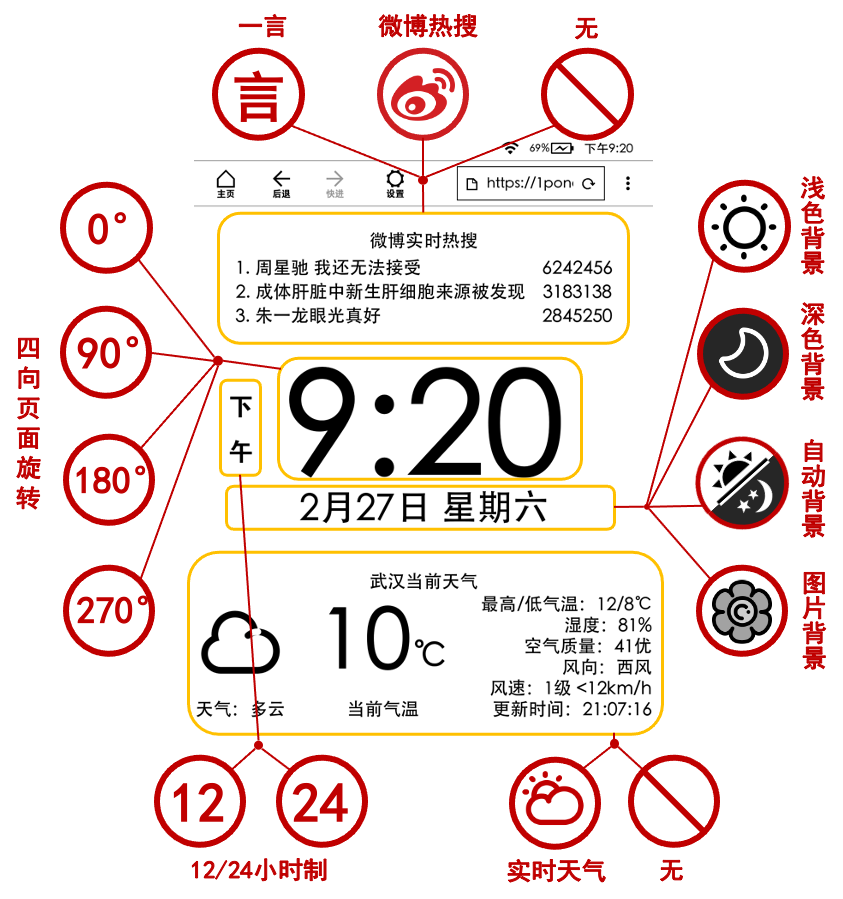
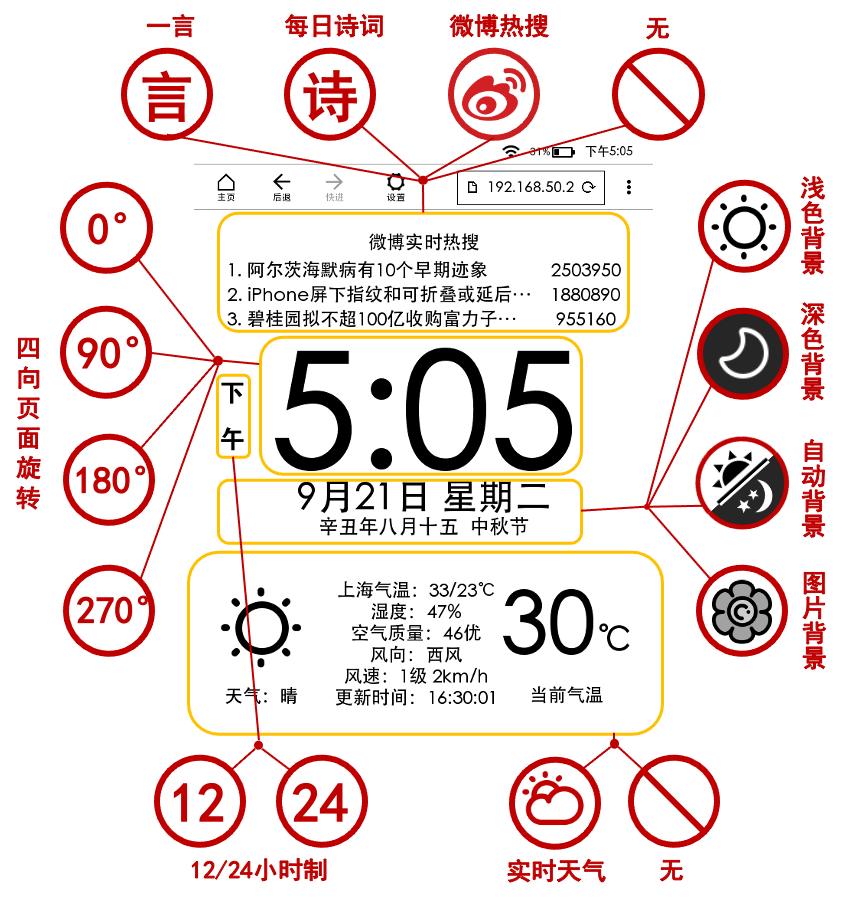
V2.3

Changed region(s): [[0.1234, 0.0, 0.8327, 0.8098], [0.6785, 0.0, 0.7094, 0.0623], [0.3393, 0.7475, 0.3701, 0.7786]]

diff --git a/js/main.js b/js/main.js
@@ -1,3 +1,3 @@
-window.onload=function(){if(timezoneOffset!==""){timezoneOffset=Number(timezoneOffset);clock(bg_autoMode);time_timer=setInterval("clock("+bg_autoMode+")",60*1000)}else{getTimezoneOffset()}if(rotation_mode!==""){rotation_mode=Number(rotation_mode)}else{rotation_mode=rotation_mode_default;setCookie("rotation_mode",rotation_mode,30)}rotation_mode=rotation_mode===0?3:rotation_mode-1;rotateScreen();if(hour24!==""){hour24=hour24==="true"?true:false}else{hour24=hour24_default;setCookie("hour24",hour24,30)}if(top_mode!==""){top_mode=Number(top_mode)}else{top_mode=top_mode_default;setCookie("top_mode",top_mode,30)}top_mode=top_mode===0?TOP_MODE.length-1:top_mode-1;changeTopMode();if(bottom_mode!==""){bottom_mode=Number(bottom_mode)}else{bottom_mode=bottom_mode_default;setCookie("bottom_mode",bottom_mode,30)}bottom_mode=bottom_mode===0?BOTTOM_MODE.length-1:bottom_mode-1;changeBottomMode();if(bg_mode!==""){bg_mode=Number(bg_mode);bg_mode=bg_mode===0?BG_MODE.length-1:bg_mode-1;changeBgMode()}else{bg_mode=bg_mode_default;setCookie("bg_mode",bg_mode,30)}addEvent(bg_autoMode)};var ALAPI_TOKEN="pBsICqbRV2eVtGiI";var UNSPLASH_ID="bXwWoUhPeVw-yvSesGMgaOENnlSzhHYB43kZIQOR8cQ";var TOP_MODE=["nonetop","hitokoto","poem","weibo"];var BOTTOM_MODE=["nonebtm","weather"];var BG_MODE=["none","dark","auto","pic"];var morningHour=6;var nightHour=19;var top_mode_default=1;var bottom_mode_default=1;var bg_mode_default=0;var rotation_mode_default=0;var hour24_default=false;var bg_autoMode=false;var weibo_num=3;var cip=returnCitySN.cip;var top_mode=getCookie("top_mode");var bottom_mode=getCookie("bottom_mode");var bg_mode=getCookie("bg_mode");var rotation_mode=getCookie("rotation_mode");var hour24=getCookie("hour24");var timezoneOffset=getCookie("timezoneOffset");var hitokoto_data=null;var weibo_data=null;var poem_data=null;var weather_data=null;var pic_data=null;var hitokoto_timer=null;var poem_timer=null;var weibo_timer=null;var time_timer=null;var weather_timer=null;var pic_timer=null;var weaImgs={xue:["&#xe645;","&#xe645;"],lei:["&#xe643;","&#xe643;"],shachen:["&#xe646;","&#xe646;"],wu:["&#xe647;","&#xe647;"],bingbao:["&#xe667;","&#xe667;"],yun:["&#xe648;","&#xe648;"],duoyun:["&#xe648;","&#xe648;"],yu:["&#xe64b;","&#xe64b;"],yin:["&#xe64a;","&#xe652;"],qing:["&#xe649;","&#xe764;"],weizhi:["&#xe6f2;","&#xe6f2;"]};var autoModeImg="&#xe8e3";function supportCss3(style){var prefix=["webkit","Moz","ms","o"],i,humpString=[],htmlStyle=document.documentElement.style,_toHumb=function(string){return string.replace(/-(\w)/g,function($0,$1){return $1.toUpperCase()})};for(i in prefix){humpString.push(_toHumb(prefix[i]+"-"+style))}humpString.push(_toHumb(style));for(i in humpString){if(humpString[i] in htmlStyle){return true}}return false}function showScreenSize(){var w=document.documentElement.clientWidth||document.body.clientWidth;var h=document.documentElement.clientHeight||document.body.clientHeight;console.log(w,h);document.getElementById("screensize").innerHTML="屏幕分辨率的宽："+w+"</br>屏幕分辨率的高："+h+"</br>getTimezoneOffset: "+Boolean(new Date().getTimezoneOffset)}function createXHR(){var xhr=null;if(window.XMLHttpRequest){xhr=new XMLHttpRequest()}else{if(window.ActiveXObject){xhr=new ActiveXObject("Microsoft.XMLHTTP")}}return xhr}function hitokoto(){console.log("hitokoto update");var xhr=createXHR();xhr.open("GET","https://v1.hitokoto.cn?encode=json&charset=utf-8",true);xhr.onreadystatechange=function(){if(this.readyState==4){hitokoto_data=JSON.parse(this.responseText);document.getElementById("brackets-l").innerHTML="『";document.getElementById("brackets-r").innerHTML="』";document.getElementById("hitokoto").innerHTML=hitokoto_data.hitokoto;document.getElementById("from").innerHTML=hitokoto_data.from_who?"「"+hitokoto_data.from+" "+hitokoto_data.from_who+"」":"「"+hitokoto_data.from+"」"}};xhr.send(null)}function poem(){console.log("poem update");jinrishici.load(function(result){poem_data=result.data;var sentence=document.querySelector("#poem_sentence");var info=document.querySelector("#poem_info");sentence.innerHTML=poem_data.content;info.innerHTML="【"+poem_data.origin.dynasty+"】"+poem_data.origin.author+"《"+poem_data.origin.title+"》"})}function getTimezoneOffset(){var xhr=createXHR();xhr.open("GET","https://worldtimeapi.org/api/ip",true);xhr.onreadystatechange=function(){if(this.readyState==4){timezoneOffset=JSON.parse(this.responseText).raw_offset/60;setCookie("timezoneOffset",timezoneOffset,30);clock()}};xhr.send(null)}function clock(autoMode){var date=new Date();var utc8DiffMinutes=date.getTimezoneOffset()+timezoneOffset;date.setMinutes(date.getMinutes()+utc8DiffMinutes);var MM=date.getMonth()+1;var dd=date.getDate();var day=date.getDay();var hour=date.getHours();var minutes=date.getMinutes();var lightMode=true;if(autoMode){if(hour>nightHour||hour<morningHour){if(lightMode){document.getElementsByClassName("page")[0].style.color="#ffffff";document.getElementsByClassName("page")[0].style.backgroundColor="#000000";lightMode=false}}else{if(!lightMode){document.getElementsByClassName("page")[0].style.color="#000000";
-document.getElementsByClassName("page")[0].style.backgroundColor="#ffffff";lightMode=true}}}if(!hour24){var apm="上<br>午";if(hour>12){apm="下<br>午";hour-=12}document.getElementById("apm").innerHTML=apm}else{document.getElementById("apm").innerHTML=""}var timeString=hour+":"+("0"+minutes).slice(-2);var dateString=MM+"月"+dd+"日";var weekList=["日","一","二","三","四","五","六"];var weekString="星期"+weekList[day];document.getElementById("time").innerHTML=timeString;document.getElementById("date").innerHTML=dateString+" "+weekString}function weather(){console.log("weather update");var xhr=createXHR();xhr.open("GET","https://v2.alapi.cn/api/tianqi?token="+ALAPI_TOKEN+"&ip="+cip,true);xhr.onreadystatechange=function(){if(this.readyState==4){var data=JSON.parse(this.responseText);if(data.code===200){weather_data=data.data;var imgs=weaImgs[weather_data.weather_code];var img=imgs[0];var date=new Date();var utc8DiffMinutes=date.getTimezoneOffset()+480;date.setMinutes(date.getMinutes()+utc8DiffMinutes);var hour=date.getHours();if(hour>nightHour||hour<morningHour){img=imgs[1]}var weaImg='<span class="iconfont">'+img+"</span>"+"<div>天气："+weather_data.weather+"</div>";var weaTemp='<div class="tempNum">'+weather_data.temp+'</div><div class="symbol">&#8451;</div>'+"<div>当前气温</div>";var highTemp=weather_data.max_temp;var lowTemp=weather_data.min_temp;var air=weather_data.aqi.air;air=air?air:"未知";var airLevel=weather_data.aqi.air_level;airLevel=airLevel&&air?airLevel:"";var updateTime=weather_data.update_time.split(" ");updateTime=updateTime[updateTime.length-1];var weaInfo="<div>最高/低气温："+highTemp+"/"+lowTemp+"&#8451;</div>"+"<div>湿度："+weather_data.humidity+"</div>"+"<div>空气质量："+air+airLevel+"</div>"+"<div>风向："+weather_data.wind+"</div>"+"<div>风速："+weather_data.wind_speed+" "+weather_data.wind_scale+"</div>"+"<div>更新时间："+updateTime+"</div>";document.getElementById("weaTitle").innerHTML=weather_data.city+"当前天气";document.getElementById("weaImg").innerHTML=weaImg;document.getElementById("weaTemp").innerHTML=weaTemp;document.getElementById("weaInfo").innerHTML=weaInfo}else{console.error("天气数据获取失败: "+weather_data.msg);document.getElementById("weaTitle").innerHTML="数据获取失败，请稍后再试～"}}};xhr.send(null)}function weibo(){console.log("weibo update");var xhr=createXHR();xhr.open("GET","https://v2.alapi.cn/api/new/wbtop?num="+weibo_num,true);xhr.setRequestHeader("token",ALAPI_TOKEN);xhr.onreadystatechange=function(){if(this.readyState==4){var data=JSON.parse(this.responseText);var weibo_title=document.getElementsByClassName("weibo_title")[0];var hot_word=document.getElementById("hot_word");var hot_word_num=document.getElementById("hot_word_num");if(data.code===200){weibo_data=data.data;weibo_title.innerHTML="微博实时热搜";hot_word.innerHTML="";hot_word_num.innerHTML="";for(var i=0;i<weibo_num;i++){var index=i+1;hot_word.innerHTML+="<li>"+index+". "+weibo_data[i].hot_word+"</li>";hot_word_num.innerHTML+="<li>"+weibo_data[i].hot_word_num+"</li>"}}else{console.error("微博热搜数据获取失败: "+data.msg);weibo_title.innerHTML="数据获取失败，请稍后再试～"}}};xhr.send(null)}function picture(){console.log("picture update")}function changeMode(pos){console.log("# change "+pos+" mode");var pos_mode=eval(pos+"_mode");var POS_MODE=eval(pos.toUpperCase()+"_MODE");if(pos_mode!==0&&eval(POS_MODE[pos_mode]+"_timer")){clearInterval(eval(POS_MODE[pos_mode]+"_timer"));eval(POS_MODE[pos_mode]+"_timer = null");console.log(POS_MODE[pos_mode]+"_timer destroyed")}pos_mode++;if(pos_mode===POS_MODE.length){pos_mode=0}eval(pos+"_mode = pos_mode");setCookie(pos+"_mode",pos_mode,30);if(pos_mode!==0){if(!eval(POS_MODE[pos_mode]+"_data")){eval(POS_MODE[pos_mode]+"()")}eval(POS_MODE[pos_mode]+'_timer = setInterval(POS_MODE[pos_mode] + "()", 60 * 1000 * 20)');console.log(POS_MODE[pos_mode]+"_timer created")}for(var i=0;i<POS_MODE.length;i++){document.getElementsByClassName(POS_MODE[i]+"_container")[0].style.display="none"}document.getElementsByClassName(POS_MODE[pos_mode]+"_container")[0].style.display="block"}function changeTopMode(){changeMode("top")}function changeBottomMode(){changeMode("bottom")}function rotateScreen(){console.log("# rotate screen "+rotation_mode);var body=document.getElementsByTagName("body")[0];var page=document.getElementsByClassName("page")[0];var w=document.documentElement.clientWidth||document.body.clientWidth;var h=document.documentElement.clientHeight||document.body.clientHeight;if(rotation_mode===0){body.classList.add("rotate-90");body.style.height=w+"px";page.style.width=h+"px";page.style.height=w+"px"}else{if(rotation_mode===1){body.classList.remove("rotate-90");body.classList.add("rotate-180");body.style.height=h+"px";page.style.width=w+"px";page.style.height=h+"px"}else{if(rotation_mode===2){body.classList.remove("rotate-180");body.classList.add("rotate-270");body.style.width=h+"px";page.style.height=w+"px";page.style.width="auto"}else{if(rotation_mode===3){body.classList.remove("rotate-270");body.style.width="auto";body.style.height=h+"px";page.style.width=w+"px";page.style.height=h+"px"
-}}}}rotation_mode=rotation_mode===3?0:rotation_mode+1;setCookie("rotation_mode",rotation_mode,30)}function changeBgMode(){console.log("# change background");var page=document.getElementsByClassName("page")[0];var pageClasses=page.classList;bg_mode=bg_mode===BG_MODE.length-1?0:bg_mode+1;setCookie("bg_mode",bg_mode,30);if(bg_mode===0){clearInterval(pic_timer);pic_timer=null;pageClasses.remove("pic");console.log("picture close");pageClasses.add("light")}else{if(bg_mode===1){pageClasses.remove("light");pageClasses.add("dark")}else{if(bg_mode===2){var date=new Date();var utc8DiffMinutes=date.getTimezoneOffset()+480;date.setMinutes(date.getMinutes()+utc8DiffMinutes);var hour=date.getHours();if(hour>nightHour||hour<morningHour){pageClasses.remove("light");pageClasses.add("dark")}else{pageClasses.remove("dark");pageClasses.add("light")}var icon=document.getElementById("light_dark_icon");var middle=document.getElementById("middle");icon.style.visibility="visible";middle.style.visibility="hidden";setTimeout(function(){icon.style.visibility="hidden";middle.style.visibility="visible"},1000)}else{console.log("picture open");if(!pic_data){picture()}pic_timer=setInterval("picture()",60*1000*60);pageClasses.remove("light");pageClasses.remove("dark");pageClasses.add("pic")}}}}function addEvent(autoMode){document.getElementById("apmOuterWrapper").addEventListener("click",function(){console.log("hourCycle change");hour24=!hour24;setCookie("hour24",hour24,30);clock(autoMode)});document.getElementsByClassName("time")[0].addEventListener("click",rotateScreen);document.getElementById("top").addEventListener("click",changeTopMode);document.getElementById("bottom").addEventListener("click",changeBottomMode);document.getElementById("date").addEventListener("click",changeBgMode)};
+window.onload=function(){if(timezoneOffset!==""){timezoneOffset=Number(timezoneOffset);clock(bg_autoMode);time_timer=setInterval("clock("+bg_autoMode+")",60*1000)}else{getTimezoneOffset()}if(rotation_mode!==""){rotation_mode=Number(rotation_mode)}else{rotation_mode=rotation_mode_default;setCookie("rotation_mode",rotation_mode,30)}rotation_mode=rotation_mode===0?3:rotation_mode-1;rotateScreen();if(hour24!==""){hour24=hour24==="true"?true:false}else{hour24=hour24_default;setCookie("hour24",hour24,30)}if(top_mode!==""){top_mode=Number(top_mode)}else{top_mode=top_mode_default;setCookie("top_mode",top_mode,30)}top_mode=top_mode===0?TOP_MODE.length-1:top_mode-1;changeTopMode();if(bottom_mode!==""){bottom_mode=Number(bottom_mode)}else{bottom_mode=bottom_mode_default;setCookie("bottom_mode",bottom_mode,30)}bottom_mode=bottom_mode===0?BOTTOM_MODE.length-1:bottom_mode-1;changeBottomMode();if(bg_mode!==""){bg_mode=Number(bg_mode);bg_mode=bg_mode===0?BG_MODE.length-1:bg_mode-1;changeBgMode()}else{bg_mode=bg_mode_default;setCookie("bg_mode",bg_mode,30)}addEvent(bg_autoMode)};var ALAPI_TOKEN="pBsICqbRV2eVtGiI";var UNSPLASH_ID="bXwWoUhPeVw-yvSesGMgaOENnlSzhHYB43kZIQOR8cQ";var TOP_MODE=["nonetop","hitokoto","poem","weibo"];var BOTTOM_MODE=["nonebtm","weather"];var BG_MODE=["none","dark","auto","pic"];var morningHour=6;var nightHour=19;var top_mode_default=1;var bottom_mode_default=1;var bg_mode_default=0;var rotation_mode_default=0;var hour24_default=false;var bg_autoMode=false;var weibo_num=3;var cip=returnCitySN.cip;var top_mode=getCookie("top_mode");var bottom_mode=getCookie("bottom_mode");var bg_mode=getCookie("bg_mode");var rotation_mode=getCookie("rotation_mode");var hour24=getCookie("hour24");var timezoneOffset=getCookie("timezoneOffset");var hitokoto_data=null;var weibo_data=null;var poem_data=null;var weather_data=null;var pic_data=null;var dd_data=null;var hitokoto_timer=null;var poem_timer=null;var weibo_timer=null;var time_timer=null;var weather_timer=null;var pic_timer=null;var weaImgs={xue:["&#xe645;","&#xe645;"],lei:["&#xe643;","&#xe643;"],shachen:["&#xe646;","&#xe646;"],wu:["&#xe647;","&#xe647;"],bingbao:["&#xe667;","&#xe667;"],yun:["&#xe648;","&#xe648;"],duoyun:["&#xe648;","&#xe648;"],yu:["&#xe64b;","&#xe64b;"],yin:["&#xe64a;","&#xe652;"],qing:["&#xe649;","&#xe764;"],weizhi:["&#xe6f2;","&#xe6f2;"],};var autoModeImg="&#xe8e3";function createXHR(){var xhr=null;if(window.XMLHttpRequest){xhr=new XMLHttpRequest()}else{if(window.ActiveXObject){xhr=new ActiveXObject("Microsoft.XMLHTTP")}}return xhr}function hitokoto(){console.log("hitokoto update");var xhr=createXHR();xhr.open("GET","https://v1.hitokoto.cn?encode=json&charset=utf-8",true);xhr.onreadystatechange=function(){if(this.readyState==4){hitokoto_data=JSON.parse(this.responseText);document.getElementById("brackets-l").innerHTML="『";document.getElementById("brackets-r").innerHTML="』";document.getElementById("hitokoto").innerHTML=hitokoto_data.hitokoto;document.getElementById("from").innerHTML=hitokoto_data.from_who?"「"+hitokoto_data.from+" "+hitokoto_data.from_who+"」":"「"+hitokoto_data.from+"」"}};xhr.send(null)}function poem(){console.log("poem update");jinrishici.load(function(result){poem_data=result.data;var sentence=document.querySelector("#poem_sentence");var info=document.querySelector("#poem_info");sentence.innerHTML=poem_data.content;info.innerHTML="【"+poem_data.origin.dynasty+"】"+poem_data.origin.author+"《"+poem_data.origin.title+"》"})}function getTimezoneOffset(){var xhr=createXHR();xhr.open("GET","https://worldtimeapi.org/api/ip/"+(cip||null),true);xhr.onreadystatechange=function(){if(this.readyState==4){timezoneOffset=JSON.parse(this.responseText).raw_offset/60;setCookie("timezoneOffset",timezoneOffset,30);clock()}};xhr.send(null)}function clock(autoMode){var date=new Date();var utc8DiffMinutes=date.getTimezoneOffset()+timezoneOffset;date.setMinutes(date.getMinutes()+utc8DiffMinutes);var MM=date.getMonth()+1;var dd=date.getDate();var day=date.getDay();var hour=date.getHours();var minutes=date.getMinutes();var lightMode=true;if(autoMode){if(hour>nightHour||hour<morningHour){if(lightMode){document.getElementsByClassName("page")[0].style.color="#ffffff";document.getElementsByClassName("page")[0].style.backgroundColor="#000000";lightMode=false}}else{if(!lightMode){document.getElementsByClassName("page")[0].style.color="#000000";document.getElementsByClassName("page")[0].style.backgroundColor="#ffffff";lightMode=true}}}if(!hour24){var apm="上<br>午";if(hour>12){apm="下<br>午";hour-=12}document.getElementById("apm").innerHTML=apm}else{document.getElementById("apm").innerHTML=""}var timeString=hour+":"+("0"+minutes).slice(-2);document.getElementById("time").innerHTML=timeString;if(!dd_data||dd!==dd_data){console.log("get lunar");dd_data=dd;var dateString=MM+"月"+dd+"日";var weekList=["日","一","二","三","四","五","六"];var weekString="星期"+weekList[day];document.getElementById("date").innerHTML=dateString+" "+weekString;getLunar();getHoliday()}}function getLunar(){var lunarString="";
+var xhr=createXHR();xhr.open("GET","https://v2.alapi.cn/api/lunar?token="+ALAPI_TOKEN);xhr.onreadystatechange=function(){if(this.readyState==4){var data=JSON.parse(this.responseText);console.log(data);if(data.code===200){var lunar_data=data.data;lunarString=lunar_data.ganzhi_year+"年"+lunar_data.lunar_month_chinese+lunar_data.lunar_day_chinese;lunar=document.getElementById("lunar").innerHTML=lunarString;console.log(lunar_data)}else{console.error("农历数据获取失败")}}};xhr.send(null)}function getHoliday(){var xhr=createXHR();xhr.open("GET","https://timor.tech/api/holiday/info/");xhr.onreadystatechange=function(){if(this.readyState==4){if(this.status===200){var data=JSON.parse(this.responseText);console.log(data);data.holiday&&(document.getElementById("holiday").innerHTML="&nbsp;&nbsp;"+data.holiday.name)}else{console.error("节假日数据获取失败")}}};xhr.send(null)}function weather(){console.log("weather update");var xhr=createXHR();xhr.open("GET","https://v2.alapi.cn/api/tianqi?token="+ALAPI_TOKEN+"&ip="+cip,true);xhr.onreadystatechange=function(){if(this.readyState==4){var data=JSON.parse(this.responseText);if(data.code===200){weather_data=data.data;var imgs=weaImgs[weather_data.weather_code];var img=imgs[0];var date=new Date();var utc8DiffMinutes=date.getTimezoneOffset()+480;date.setMinutes(date.getMinutes()+utc8DiffMinutes);var hour=date.getHours();if(hour>nightHour||hour<morningHour){img=imgs[1]}var weaImg='<span class="iconfont">'+img+"</span>"+"<div>天气："+weather_data.weather+"</div>";var weaTemp='<div class="tempNum">'+weather_data.temp+'</div><div class="symbol">&#8451;</div>'+"<div>当前气温</div>";var highTemp=weather_data.max_temp;var lowTemp=weather_data.min_temp;var air=weather_data.aqi.air;air=air?air:"未知";var airLevel=weather_data.aqi.air_level;airLevel=airLevel&&air?airLevel:"";var updateTime=weather_data.update_time.split(" ");updateTime=updateTime[updateTime.length-1];var weaInfo="<div>"+weather_data.city+"气温："+highTemp+"/"+lowTemp+"&#8451;</div>"+"<div>湿度："+weather_data.humidity+"</div>"+"<div>空气质量："+air+airLevel+"</div>"+"<div>风向："+weather_data.wind+"</div>"+"<div>风速："+weather_data.wind_speed+" "+weather_data.wind_scale+"</div>"+"<div>更新时间："+updateTime+"</div>";document.getElementById("weaTitle").innerHTML="";document.getElementById("weaImg").innerHTML=weaImg;document.getElementById("weaTemp").innerHTML=weaTemp;document.getElementById("weaInfo").innerHTML=weaInfo}else{console.error("天气数据获取失败: "+weather_data.msg);document.getElementById("weaTitle").innerHTML="数据获取失败，请稍后再试～"}}};xhr.send(null)}function weibo(){console.log("weibo update");var xhr=createXHR();xhr.open("GET","https://v2.alapi.cn/api/new/wbtop?num="+weibo_num,true);xhr.setRequestHeader("token",ALAPI_TOKEN);xhr.onreadystatechange=function(){if(this.readyState==4){var data=JSON.parse(this.responseText);var weibo_title=document.getElementsByClassName("weibo_title")[0];var hot_word=document.getElementById("hot_word");var hot_word_num=document.getElementById("hot_word_num");if(data.code===200){weibo_data=data.data;weibo_title.innerHTML="微博实时热搜";hot_word.innerHTML="";hot_word_num.innerHTML="";for(var i=0;i<weibo_num;i++){var index=i+1;hot_word.innerHTML+="<li>"+index+". "+weibo_data[i].hot_word+"</li>";hot_word_num.innerHTML+="<li>"+weibo_data[i].hot_word_num+"</li>"}}else{console.error("微博热搜数据获取失败: "+data.msg);weibo_title.innerHTML="数据获取失败，请稍后再试～"}}};xhr.send(null)}function picture(){console.log("picture update")}function changeMode(pos){console.log("# change "+pos+" mode");var pos_mode=eval(pos+"_mode");var POS_MODE=eval(pos.toUpperCase()+"_MODE");if(pos_mode!==0&&eval(POS_MODE[pos_mode]+"_timer")){clearInterval(eval(POS_MODE[pos_mode]+"_timer"));eval(POS_MODE[pos_mode]+"_timer = null");console.log(POS_MODE[pos_mode]+"_timer destroyed")}pos_mode++;if(pos_mode===POS_MODE.length){pos_mode=0}eval(pos+"_mode = pos_mode");setCookie(pos+"_mode",pos_mode,30);if(pos_mode!==0){if(!eval(POS_MODE[pos_mode]+"_data")){eval(POS_MODE[pos_mode]+"()")}eval(POS_MODE[pos_mode]+'_timer = setInterval(POS_MODE[pos_mode] + "()", 60 * 1000 * 20)');console.log(POS_MODE[pos_mode]+"_timer created")}for(var i=0;i<POS_MODE.length;i++){document.getElementsByClassName(POS_MODE[i]+"_container")[0].style.display="none"}document.getElementsByClassName(POS_MODE[pos_mode]+"_container")[0].style.display="block"}function changeTopMode(){changeMode("top")}function changeBottomMode(){changeMode("bottom")}function rotateScreen(){console.log("# rotate screen "+rotation_mode);var body=document.getElementsByTagName("body")[0];var page=document.getElementsByClassName("page")[0];var w=document.documentElement.clientWidth||document.body.clientWidth;var h=document.documentElement.clientHeight||document.body.clientHeight;if(rotation_mode===0){body.classList.add("rotate-90");body.style.height=w+"px";page.style.width=h+"px";page.style.height=w+"px"}else{if(rotation_mode===1){body.classList.remove("rotate-90");body.classList.add("rotate-180");body.style.height=h+"px";page.style.width=w+"px";page.style.height=h+"px"
+}else{if(rotation_mode===2){body.classList.remove("rotate-180");body.classList.add("rotate-270");body.style.width=h+"px";page.style.height=w+"px";page.style.width="auto"}else{if(rotation_mode===3){body.classList.remove("rotate-270");body.style.width="auto";body.style.height=h+"px";page.style.width=w+"px";page.style.height=h+"px"}}}}rotation_mode=rotation_mode===3?0:rotation_mode+1;setCookie("rotation_mode",rotation_mode,30)}function changeBgMode(){console.log("# change background");var page=document.getElementsByClassName("page")[0];var pageClasses=page.classList;bg_mode=bg_mode===BG_MODE.length-1?0:bg_mode+1;setCookie("bg_mode",bg_mode,30);if(bg_mode===0){clearInterval(pic_timer);pic_timer=null;pageClasses.remove("pic");console.log("picture close");pageClasses.add("light")}else{if(bg_mode===1){pageClasses.remove("light");pageClasses.add("dark")}else{if(bg_mode===2){var date=new Date();var utc8DiffMinutes=date.getTimezoneOffset()+480;date.setMinutes(date.getMinutes()+utc8DiffMinutes);var hour=date.getHours();if(hour>nightHour||hour<morningHour){pageClasses.remove("light");pageClasses.add("dark")}else{pageClasses.remove("dark");pageClasses.add("light")}var icon=document.getElementById("light_dark_icon");var middle=document.getElementById("middle");icon.style.visibility="visible";middle.style.visibility="hidden";setTimeout(function(){icon.style.visibility="hidden";middle.style.visibility="visible"},1000)}else{console.log("picture open");if(!pic_data){picture()}pic_timer=setInterval("picture()",60*1000*60);pageClasses.remove("light");pageClasses.remove("dark");pageClasses.add("pic")}}}}function addEvent(autoMode){document.getElementById("apmOuterWrapper").addEventListener("click",function(){console.log("hourCycle change");hour24=!hour24;setCookie("hour24",hour24,30);clock(autoMode)});document.getElementsByClassName("time")[0].addEventListener("click",rotateScreen);document.getElementById("top").addEventListener("click",changeTopMode);document.getElementById("bottom").addEventListener("click",changeBottomMode);document.getElementById("date").addEventListener("click",changeBgMode)};

diff --git a/css/style.css b/css/style.css
@@ -1,1 +1,1 @@
-@media screen and (min-width:500px){html{font-size:16px}}@media screen and (min-width:1000px){html{font-size:28px}}@font-face{font-family:"iconfont";src:url("./font/iconfont.eot");src:url("./font/iconfont.eot?#iefix") format("embedded-opentype"),url("./font/iconfont.woff2") format("woff2"),url("./font/iconfont.woff") format("woff"),url("./font/iconfont.ttf") format("truetype"),url("./font/iconfont.svg#iconfont") format("svg")}.iconfont{font-family:"iconfont"!important;font-size:7.5rem;width:7.5rem;font-weight:100;font-style:normal;-webkit-font-smoothing:antialiased;-moz-osx-font-smoothing:grayscale}.clearfix:after{content:"";display:block;clear:both}html,body{width:100%;height:100%;margin:0;padding:0}body{color:#000;background-color:#fff;overflow-x:hidden;overflow-y:hidden;position:relative}.rotate-90{transform:rotate(90deg);-webkit-transform:rotate(90deg);transform-origin:center center;-webkit-transform-origin:center center}.rotate-180{transform:rotate(180deg);-webkit-transform:rotate(180deg);transform-origin:center center;-webkit-transform-origin:center center}.rotate-270{transform:rotate(270deg);-webkit-transform:rotate(270deg);transform-origin:center center;-webkit-transform-origin:center center}ul{list-style:none;margin:0;padding:0}li{line-height:2rem}li div{display:inline-block}.page{position:relative;width:100%;height:100%}#light_dark_icon{visibility:hidden;display:black;position:absolute;left:50%;top:45%;transform:translate(-50%,-50%);-webkit-transform:translate(-50%,-50%);font-size:15rem;width:15rem}.fadeout{-webkit-transition:opacity 1s;transition:opacity 1s;opacity:0}.fadein{-webkit-transition:opacity 2s;transition:opacity 2s;opacity:1}#log_container{position:absolute;top:0;left:0}#top{height:27%;width:100%;text-align:center}#middle{height:35%;width:100%;text-align:center}#bottom{height:38%;width:100%;text-align:center}#top>div,#middle>div,#bottom>div{position:relative;top:50%;transform:translateY(-50%);-webkit-transform:translateY(-50%)}.nonetop_container,.hitokoto_container,.weibo_container,.nonebtm_container,.weather_container{display:none}.hitokoto_container{margin:0 auto;width:90%}.hitokoto_main{position:relative;text-align:center;font-size:1.5rem}#brackets-l{position:absolute;top:0;left:0}#brackets-r{position:absolute;bottom:0;right:0}#hitokoto{display:inline-block;padding:1rem;max-width:80%}#from{text-align:right;font-size:1.25rem;line-height:2.5rem}.poem_container{text-align:center;font-size:2rem;padding:1rem}#poem_sentence{line-height:4rem}#poem_info{font-size:1.25rem;text-align:right}.weibo_container{font-size:1.5rem}.weibo_title{padding-bottom:.5rem}#hot_word,#hot_word_num{display:inline-block}#hot_word{text-align:left;margin-right:1rem;max-width:25rem}#hot_word_num{width:auto}#hot_word li,#hot_word_num{text-overflow:ellipsis;white-space:nowrap;overflow:hidden}.time_container{position:relative}#apmOuterWrapper{font-size:2rem;font-weight:600;line-height:3.75rem;position:absolute;top:0;left:5%;width:4rem;height:10rem}#apmInnerWrapper{position:relative;height:100%}#apm{position:absolute;top:50%;left:.25rem;transform:translateY(-50%);-webkit-transform:translateY(-50%);font-size:2rem}.time{font-size:13rem;line-height:10rem;font-weight:normal;text-align:center}.date{font-size:3rem;line-height:3rem}.weaWrapper{width:100%}#weaTitle{font-size:1.5rem}#weaImg{display:inline-block;float:left;margin-left:1.75rem;font-size:1.5rem}#weaImg>div,#weaTemp>div:last-child{margin-top:.75rem}#weaTemp{display:inline-block;float:right;margin-right:1.75rem;font-size:1.5rem}.tempNum{display:inline-block;font-size:7rem;font-weight:400;line-height:8.125rem}.symbol{display:inline-block;font-size:3rem;line-height:3rem}#weaInfo{display:inline-block;left:1rem;position:relative;font-size:1.5rem;line-height:1.75rem;margin-top:.25rem}.pic{color:#fff;background-color:#fff;-webkit-text-stroke:1px #000;background-position:center;background-size:cover;background-repeat:no-repeat;background-image:url('https://source.unsplash.com/random');font-weight:800}.light{color:#000;background-color:#fff;background-image:none!important}.dark{color:#fff;background-color:#000;background-image:none!important}
+@media screen and (min-width:500px){html{font-size:16px}}@media screen and (min-width:1000px){html{font-size:28px}}@font-face{font-family:"iconfont";src:url("./font/iconfont.eot");src:url("./font/iconfont.eot?#iefix") format("embedded-opentype"),url("./font/iconfont.woff2") format("woff2"),url("./font/iconfont.woff") format("woff"),url("./font/iconfont.ttf") format("truetype"),url("./font/iconfont.svg#iconfont") format("svg")}@font-face{font-family:"DottedSongtiSquareRegular";src:url("./font/DottedSongtiSquareRegular-subfont.ttf")}.iconfont{font-family:"iconfont"!important;font-size:7.5rem;width:7.5rem;font-weight:100;font-style:normal;-webkit-font-smoothing:antialiased;-moz-osx-font-smoothing:grayscale}.clearfix:after{content:"";display:block;clear:both}html,body{width:100%;height:100%;margin:0;padding:0}body{color:#000;background-color:#fff;overflow-x:hidden;overflow-y:hidden;position:relative}.rotate-90{transform:rotate(90deg);-webkit-transform:rotate(90deg);transform-origin:center center;-webkit-transform-origin:center center}.rotate-180{transform:rotate(180deg);-webkit-transform:rotate(180deg);transform-origin:center center;-webkit-transform-origin:center center}.rotate-270{transform:rotate(270deg);-webkit-transform:rotate(270deg);transform-origin:center center;-webkit-transform-origin:center center}ul{list-style:none;margin:0;padding:0}li{line-height:2rem}li div{display:inline-block}.page{position:relative;width:100%;height:100%}#light_dark_icon{visibility:hidden;display:black;position:absolute;left:50%;top:45%;transform:translate(-50%,-50%);-webkit-transform:translate(-50%,-50%);font-size:15rem;width:15rem}#log_container{position:absolute;top:0;left:0}#top{height:27%;width:100%;text-align:center}#middle{height:35%;width:100%;text-align:center}#bottom{height:38%;width:100%;text-align:center}#top>div,#middle>div,#bottom>div{position:relative;top:50%;transform:translateY(-50%);-webkit-transform:translateY(-50%)}.nonetop_container,.hitokoto_container,.weibo_container,.nonebtm_container,.weather_container{display:none}.hitokoto_container{margin:0 auto;width:90%}.hitokoto_main{position:relative;text-align:center;font-size:1.5rem}#brackets-l{position:absolute;top:0;left:0}#brackets-r{position:absolute;bottom:0;right:0}#hitokoto{display:inline-block;padding:1rem;max-width:80%}#from{text-align:right;font-size:1.25rem;line-height:2.5rem}.poem_container{text-align:center;font-size:2rem;padding:1rem}#poem_sentence{line-height:4rem}#poem_info{font-size:1.25rem;text-align:right}.weibo_container{font-size:1.5rem}.weibo_title{padding-bottom:.5rem}#hot_word,#hot_word_num{display:inline-block}#hot_word{text-align:left;margin-right:1rem;max-width:25rem}#hot_word_num{width:auto}#hot_word li,#hot_word_num{text-overflow:ellipsis;white-space:nowrap;overflow:hidden}.time_container{position:relative}#apmOuterWrapper{font-size:2rem;font-weight:600;line-height:3.75rem;position:absolute;top:0;left:5%;width:4rem;height:10rem}#apmInnerWrapper{position:relative;height:100%}#apm{position:absolute;top:50%;left:.25rem;transform:translateY(-50%);-webkit-transform:translateY(-50%);font-size:2rem}.time{font-size:13rem;line-height:10rem;font-weight:normal;text-align:center}.date{font-size:3rem;line-height:3rem}.lunar,.holiday{font-size:1.6rem;line-height:2rem}.weaWrapper{width:100%}#weaTitle{font-size:1.5rem}#weaImg{display:inline-block;float:left;margin-left:1.75rem;font-size:1.5rem}#weaImg>div,#weaTemp>div:last-child{margin-top:.75rem}#weaTemp{display:inline-block;float:right;margin-right:1.75rem;font-size:1.5rem}.tempNum{display:inline-block;font-size:7rem;font-weight:400;line-height:8.125rem}.symbol{display:inline-block;font-size:3rem;line-height:3rem}#weaInfo{display:inline-block;left:1rem;position:relative;font-size:1.5rem;line-height:1.75rem;margin-top:.25rem}.pic{color:#fff;background-color:#fff;-webkit-text-stroke:1px #000;background-position:center;background-size:cover;background-repeat:no-repeat;background-image:url("https://source.unsplash.com/random");font-weight:800}.light{color:#000;background-color:#fff;background-image:none!important}.dark{color:#fff;background-color:#000;background-image:none!important}

diff --git a/beta/js/main.js b/beta/js/main.js
@@ -177,7 +177,7 @@ function poem() {
 // 获取所在时区
 function getTimezoneOffset() {
   var xhr = createXHR();
-  xhr.open("GET", "https://worldtimeapi.org/api/ip", true);
+  xhr.open("GET", "https://worldtimeapi.org/api/ip/" + (cip || null), true);
   xhr.onreadystatechange = function () {
     if (this.readyState == 4) {
       timezoneOffset = JSON.parse(this.responseText).raw_offset / 60;

diff --git a/index.html b/index.html
@@ -51,6 +51,7 @@
                 </div>
                 <div class="time" id="time"></div>
                 <div class="date" id="date">时钟加载中...</div>
+                <div><span class="lunar" id="lunar"></span><span class="holiday" id="holiday"></span></div>
             </div>
         </div>
 

diff --git a/beta/index.html b/beta/index.html
@@ -67,6 +67,7 @@
             </div>
         </div>
     </div>
+    <!-- <script src="js/test.js"></script> -->
 </body>
 
 </html>

diff --git a/beta/js/test.js b/beta/js/test.js
@@ -42,3 +42,6 @@ function reLog() {
     }
   };
 }
+
+reLog();
+console.log(new Date().toLocaleString());

diff --git a/README.md b/README.md
@@ -28,12 +28,14 @@
 
 ### 功能模块
 
-| 顶部模块 | 中部模块 | 底部模块 | 背景模块 |
-| :------: | :------: | :------: | :------: |
-|    无    |   时钟   |    无    |   浅色   |
-|   一言   |          | 实时天气 |   深色   |
-| 每日诗词 |          |          |   自动   |
-| 微博热搜 |          |          |   图片   |
+| 顶部模块 | 中部模块  | 底部模块 | 背景模块 |
+| :------: | :-------: | :------: | :------: |
+|    无    | 时钟/日期 |    无    |   浅色   |
+|   一言   |           | 实时天气 |   深色   |
+| 每日诗词 |           |          |   自动   |
+| 微博热搜 |           |          |   图片   |
+
+
 
 <div align=center><img src="https://raw.githubusercontent.com/1pone/1pone.github.io/master/images/feature.png" alt="feature.png" width="600"/><p>「 点击不同组件进行功能配置切换 」</p></div>
 
@@ -52,6 +54,8 @@
 
 
 # V1.0
+
+> V1.0 版本将不再维护，更多体验更多功能请使用 V2.0 以上版本。
 
 		你可以根据你的喜好需求选择 `模式` `功能` 对应下的路径，将至添加到主页 https://1pone.github.io 之后，即可访问相应页面，如，`深色模式` `时钟` 页面的路径为 https://1pone.github.io/clockDark ，路径省略时默认路径为`/index`，即 `浅色模式`，`一言 + 时钟 + 天气`功能。
 
@@ -107,6 +111,17 @@
 
 
 ## 更新日志
+
+#### 2.3 (2021.09.21)
+
+##### Features
+
+* 添加农历日期，节日提示
+* 页面布局调整
+
+#####Bug Fixes
+
+* 时区接口添加ip参数
 
 #### 2.2 (2021.03.09)
 
